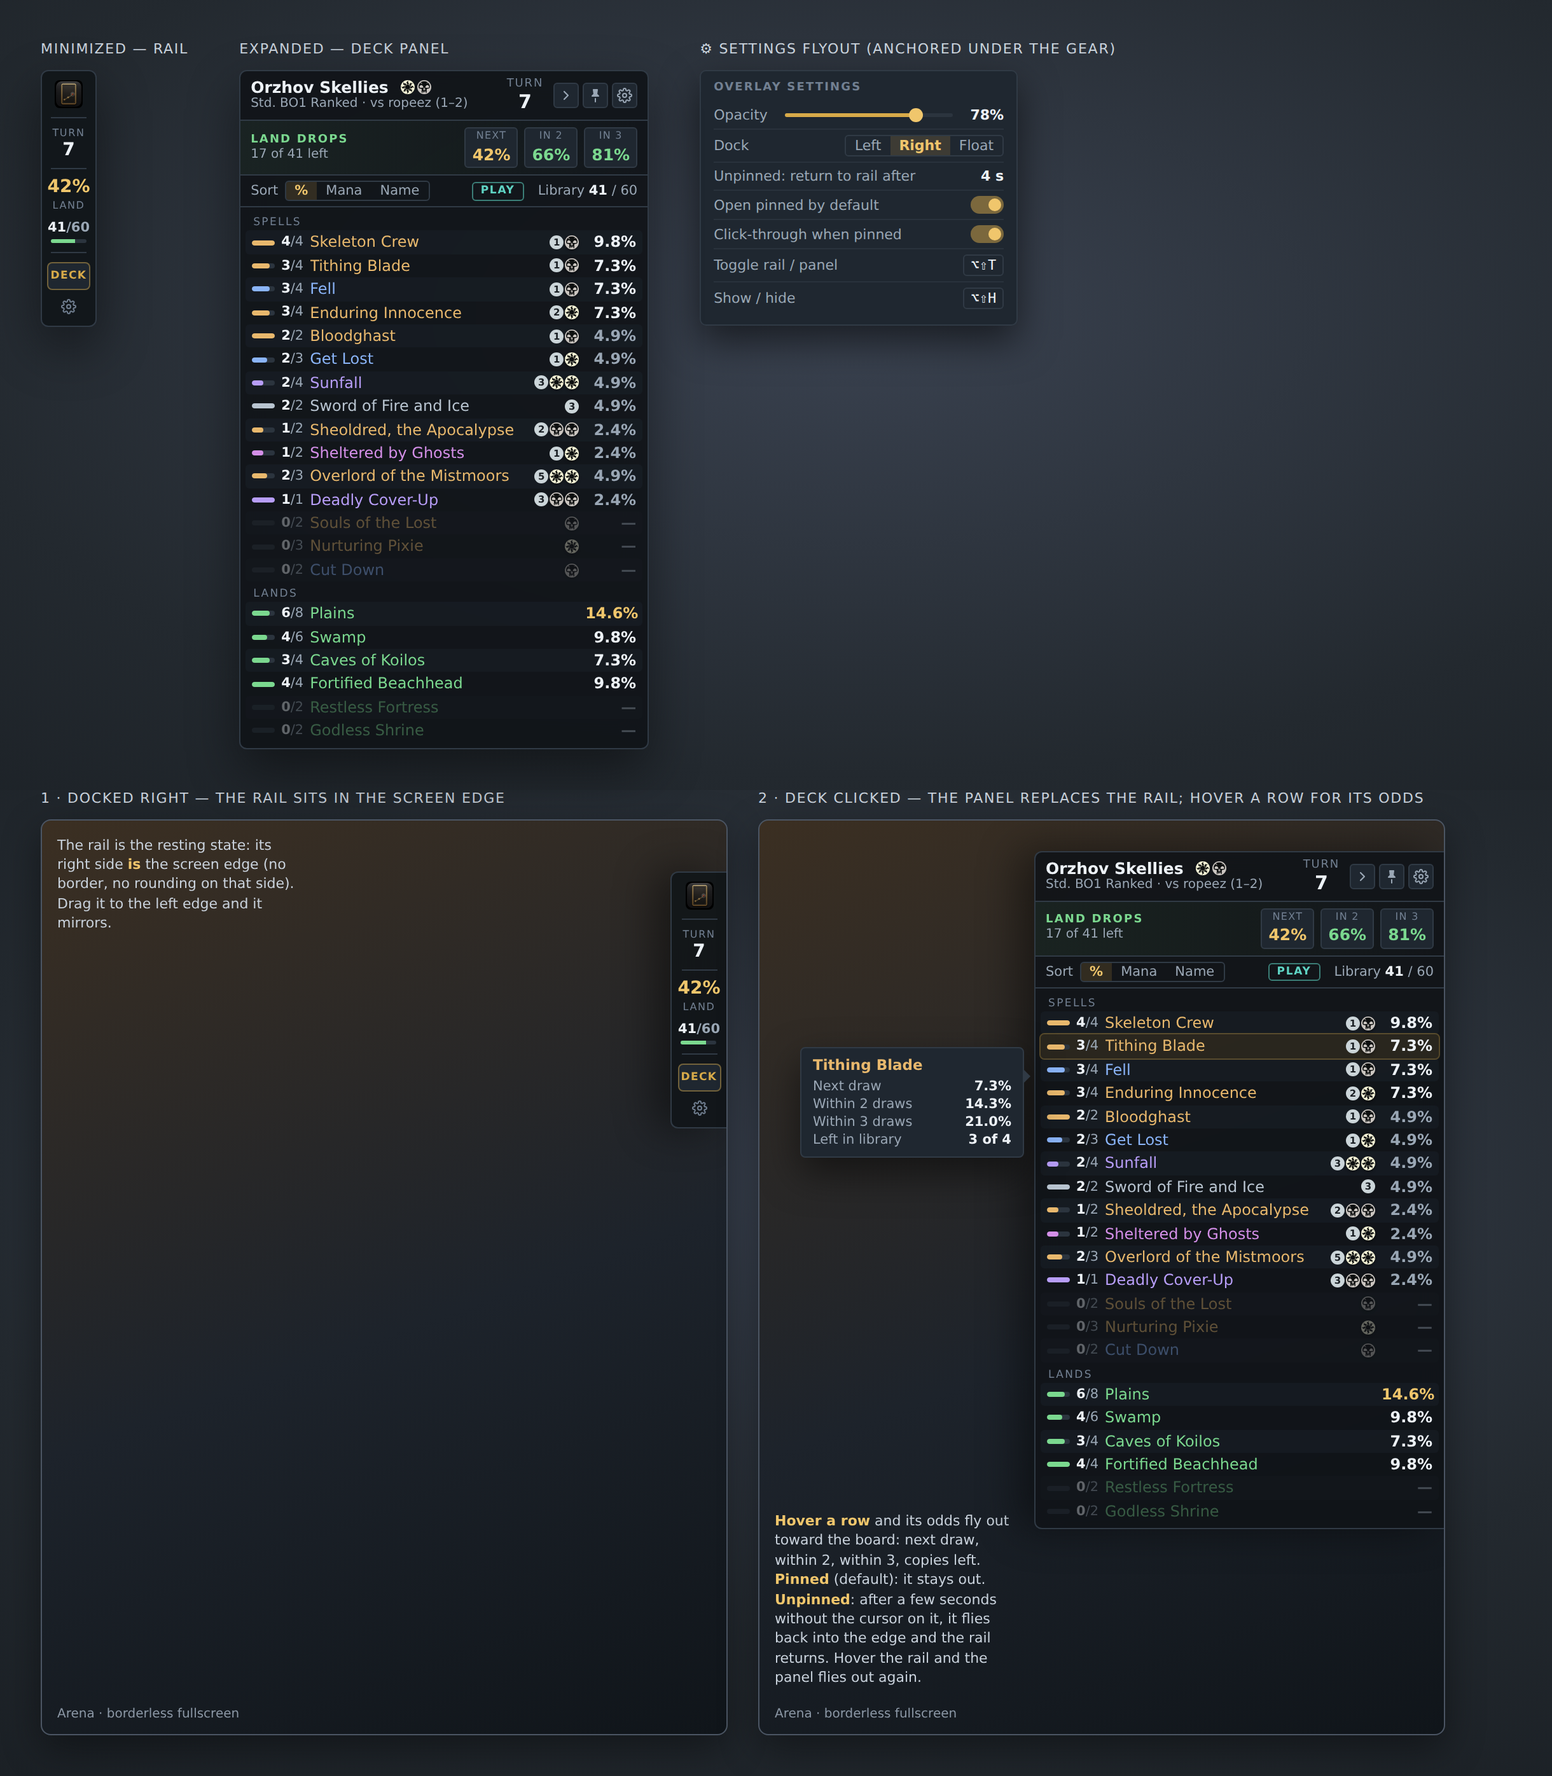
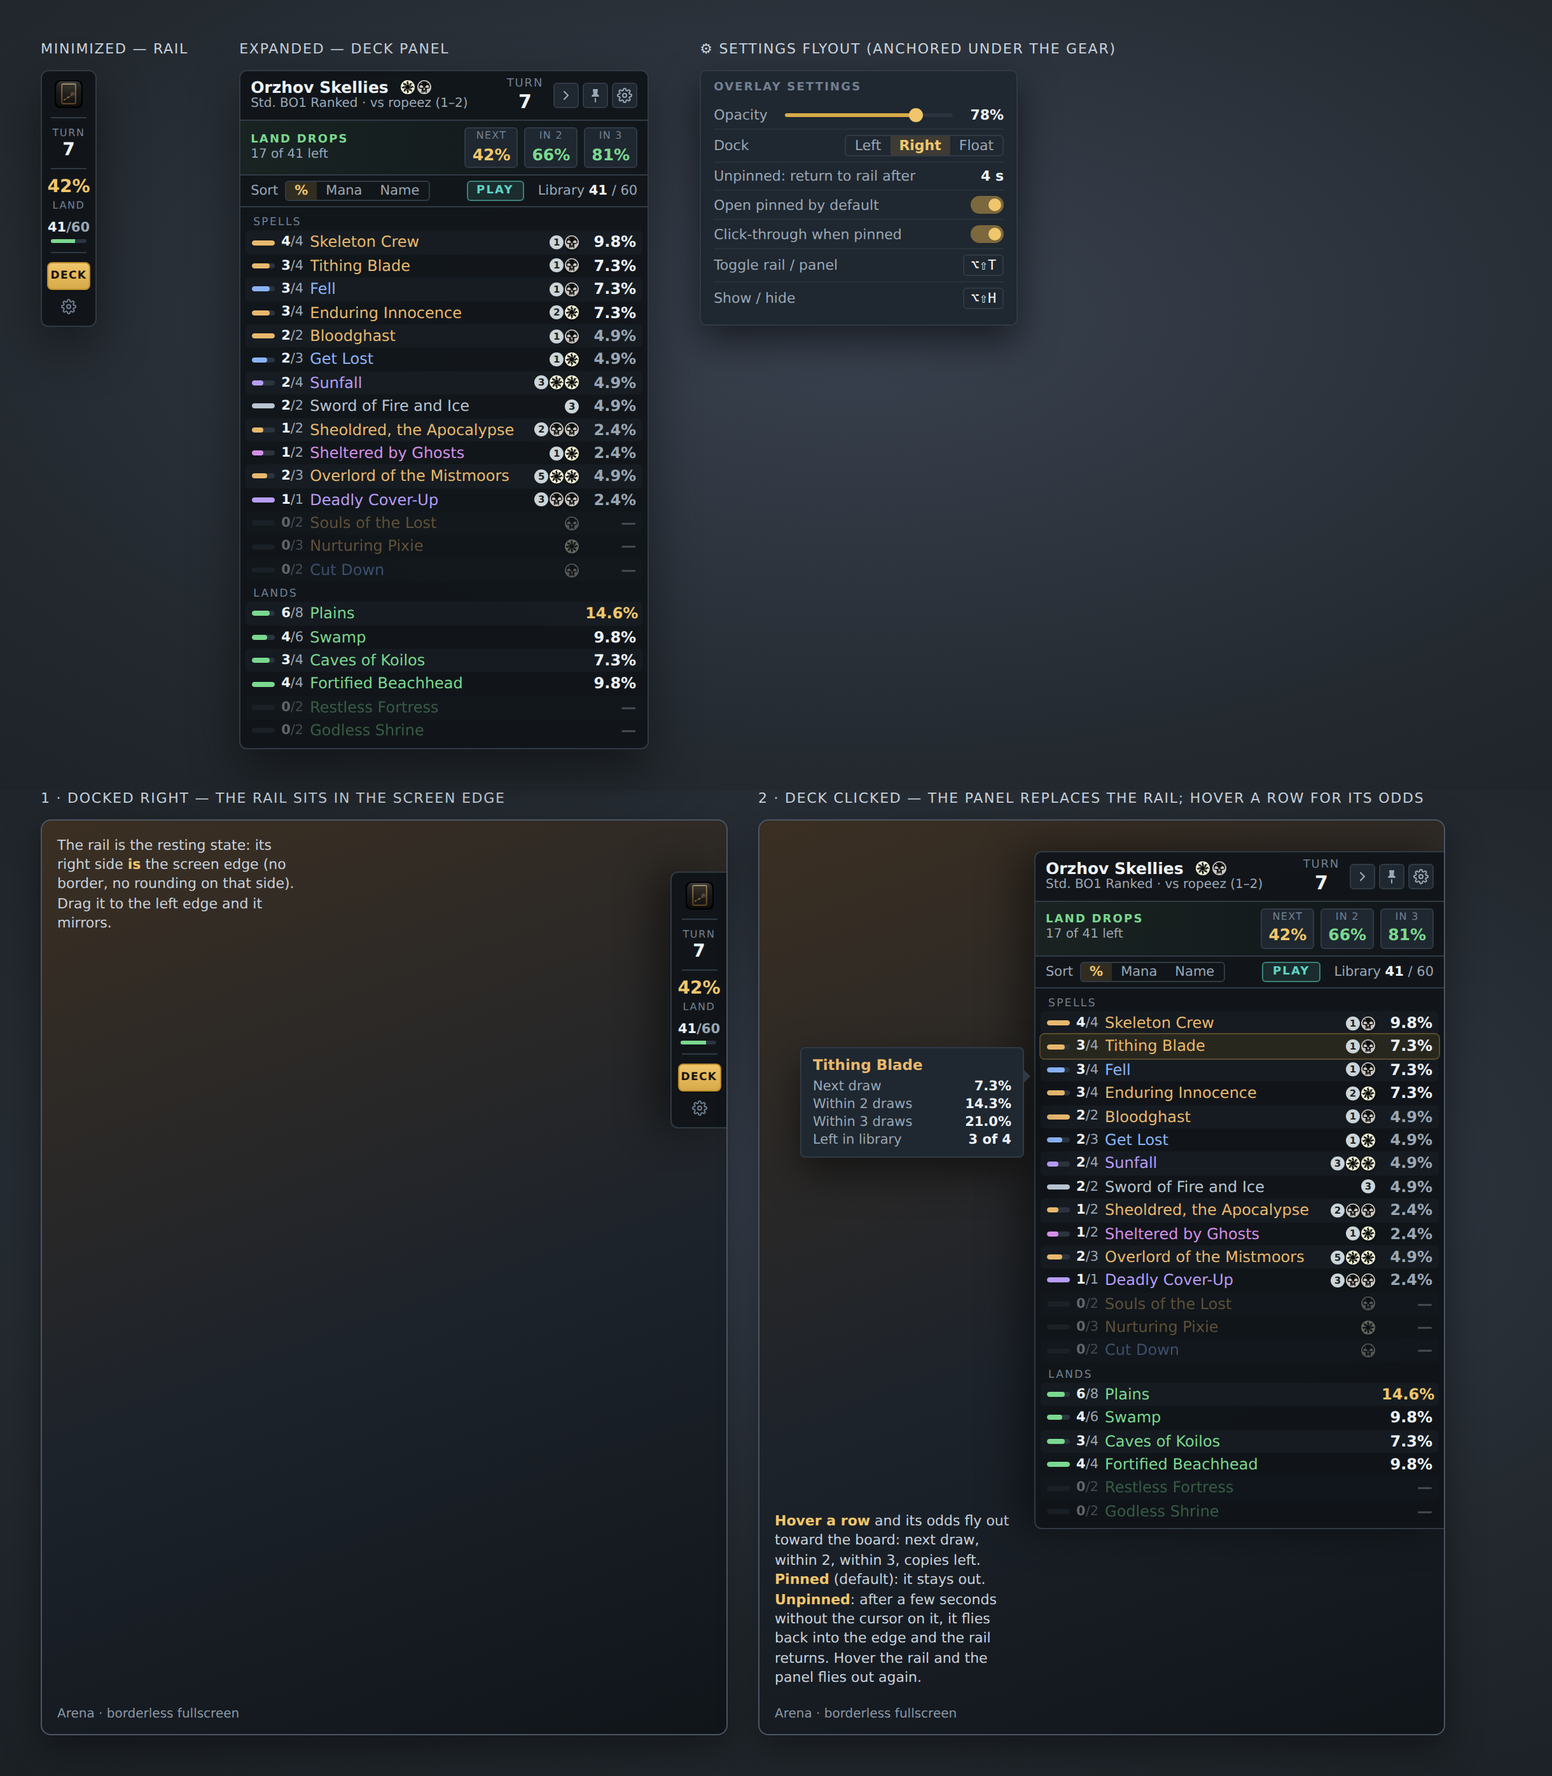
Overlay plan: enable/disable surfaces, Arena window detection (follow, hide when not in front, exclusive-fullscreen hint), 80 MB memory budget with Preact and no blur, pre-build checklist; DECK becomes the filled gold primary, PLAY/DRAW pill tinted

diff --git a/docs/plans/overlay-mockup.html b/docs/plans/overlay-mockup.html
@@ -10,8 +10,8 @@
   .logo { border-radius:4px; display:block; }
 
   /* rail */
-  .rail { width:44px; background:rgba(16,20,24,.88); border:1px solid var(--border); border-radius:6px; box-shadow:0 16px 40px rgb(0 0 0 / 45%);
-           backdrop-filter:blur(10px); padding:7px 0 5px; display:flex; flex-direction:column; align-items:center; gap:7px; }
+  .rail { width:44px; background:rgba(16,20,24,.94); border:1px solid var(--border); border-radius:6px; box-shadow:0 16px 40px rgb(0 0 0 / 45%);
+           padding:7px 0 5px; display:flex; flex-direction:column; align-items:center; gap:7px; }
   .rail .sep { width:28px; height:1px; background:var(--border); }
   .rail .k { font-size:8px; letter-spacing:.1em; color:var(--subtle); text-transform:uppercase; }
   .rail .v { font-size:14px; font-weight:800; line-height:1; margin-top:2px; }
@@ -20,11 +20,11 @@
   .rail .lib { font-size:10.5px; font-weight:700; color:var(--muted); } .rail .lib b { color:var(--text); }
   .rail .bar { width:28px; height:3px; border-radius:2px; background:#2b343e; overflow:hidden; margin-top:3px; } .rail .bar i { display:block; height:100%; width:68%; background:var(--success); }
   .rail .btn { width:34px; height:22px; border-radius:4px; border:1px solid var(--border); background:var(--panel-strong); display:grid; place-items:center; font-size:8.5px; font-weight:800; letter-spacing:.08em; color:var(--muted); }
-  .rail .btn.gold { color:var(--accent); border-color:rgba(215,170,73,.45); }
+  .rail .btn.gold { color:#1a1408; background:linear-gradient(180deg, #f0c66c, #d7aa49); border-color:#b98c2c; box-shadow:0 1px 0 rgb(0 0 0 / 35%); }
   .rail .gear { color:var(--subtle); font-size:13px; }
 
   /* panel */
-  .panel { width:322px; background:rgba(16,20,24,.92); border:1px solid var(--border); border-radius:6px; box-shadow:0 16px 40px rgb(0 0 0 / 45%); backdrop-filter:blur(10px); overflow:hidden; position:relative; }
+  .panel { width:322px; background:rgba(16,20,24,.94); border:1px solid var(--border); border-radius:6px; box-shadow:0 16px 40px rgb(0 0 0 / 45%); overflow:hidden; position:relative; }
   .head { display:flex; align-items:center; gap:8px; padding:6px 8px 6px 8px; border-bottom:1px solid var(--border); }
   .head .deck { flex:1; min-width:0; line-height:1.15; }
   .head .deck b { display:block; font-size:12.5px; white-space:nowrap; overflow:hidden; text-overflow:ellipsis; }
@@ -47,9 +47,9 @@
   .tools .seg { display:inline-flex; border:1px solid var(--border); border-radius:3px; overflow:hidden; } .tools .seg span { padding:1px 7px; }
   .tools .seg span.on { background:rgba(215,170,73,.16); color:var(--accent-strong); font-weight:700; }
   .tools .lib { margin-left:6px; }
-  .tools .pd { margin-left:auto; font-size:8.5px; font-weight:800; letter-spacing:.1em; padding:2px 6px; border-radius:3px; border:1px solid var(--border); line-height:1; }
-  .tools .pd.play { color:#5fd4c4; border-color:rgba(95,212,196,.55); }
-  .tools .pd.draw { color:#b79df7; border-color:rgba(183,157,247,.55); } .tools .lib b { color:var(--text); }
+  .tools .pd { margin-left:auto; font-size:9px; font-weight:800; letter-spacing:.12em; padding:3px 7px 2px; border-radius:3px; border:1px solid var(--border); line-height:1; }
+  .tools .pd.play { color:#5fd4c4; border-color:rgba(95,212,196,.5); background:rgba(95,212,196,.12); }
+  .tools .pd.draw { color:#b79df7; border-color:rgba(183,157,247,.5); background:rgba(183,157,247,.12); } .tools .lib b { color:var(--text); }
 
   .list { padding:2px 4px 4px; }
   .grp { font-size:8.5px; letter-spacing:.14em; color:var(--subtle); text-transform:uppercase; padding:5px 6px 1px; }
@@ -79,7 +79,7 @@
   /* docked / auto-hide demo */
   .screen { width:230px; height:190px; background:linear-gradient(160deg, #3b2f22, #1d232b 55%, #10151a); border:1px solid #4b5563; border-radius:8px; position:relative; overflow:hidden; box-shadow:0 10px 30px rgb(0 0 0 / 40%); }
   .screen .cap { position:absolute; left:10px; bottom:8px; font-size:10px; color:#8b97a5; }
-  .tab { position:absolute; right:0; top:60px; width:16px; height:64px; background:rgba(16,20,24,.92); border:1px solid var(--border); border-right:0; border-radius:8px 0 0 8px; display:flex; flex-direction:column; align-items:center; justify-content:center; gap:3px; }
+  .tab { position:absolute; right:0; top:60px; width:16px; height:64px; background:rgba(16,20,24,.94); border:1px solid var(--border); border-right:0; border-radius:8px 0 0 8px; display:flex; flex-direction:column; align-items:center; justify-content:center; gap:3px; }
   .tab b { font-size:9px; color:var(--accent-strong); writing-mode:vertical-rl; transform:rotate(180deg); letter-spacing:.05em; }
   .tab i { width:4px; height:4px; border-radius:50%; background:var(--success); }
   .ghost { position:absolute; right:0; top:14px; width:118px; height:200px; background:rgba(16,20,24,.85); border:1px solid var(--border); border-right:0; border-radius:10px 0 0 10px; transform:translateX(88px); box-shadow:-10px 0 30px rgb(0 0 0 / 40%); }

diff --git a/docs/plans/OVERLAY_TRACKER_PLAN.md b/docs/plans/OVERLAY_TRACKER_PLAN.md
@@ -28,7 +28,7 @@ nothing that matters — in the order a player reads it mid-game:
 | Turn | current turn number | orientation at a glance |
 | **Land** | `42%` in gold (14px) with LAND under it — no gauge, no ring, just the number | the one number the minimized state exists for |
 | Library | `41/60` with a thin bar (library ÷ deck size) | how deep into the deck you are |
-| DECK | opens the expanded panel | primary action, gold |
+| DECK | opens the expanded panel | the one primary action, so the one filled gold button |
 | ⚙ | opens the settings flyout (§4) | |
 
 The land number turns to the danger tone when the chance falls below 25%
@@ -81,8 +81,10 @@ the library starts at 99.
   **IN 2**, **IN 3** (green). The rail's number is NEXT; the strip is its
   expansion.
 - **Sort + play/draw + library**: sort by %, mana value, or name; a
-  **PLAY** / **DRAW** pill in the dashboard's on-play teal / on-draw violet
-  once the tracker knows (blank until then); `Library 41 / 60`.
+  **PLAY** / **DRAW** pill — the dashboard's on-play teal / on-draw violet
+  as text and border over a 12% tint of the same colour, 3px corners like
+  every other control — once the tracker knows (blank until then);
+  `Library 41 / 60`.
 - **Card list**, **Spells first, then Lands** — you scan for outs, and the
   land odds already have their own strip. Each row: an 18px **mini bar**
   filled to copies left ÷ copies in deck — the same bar language as the
@@ -143,7 +145,10 @@ overlay's settings file the moment it changes:
   (`Alt+Shift+H`), both rebindable.
 
 Corners are tight throughout — 6px on the window, 3px on controls, pills,
-and rows — so the overlay reads as an instrument, not a card.
+and rows — so the overlay reads as an instrument, not a card. The window
+background is a 94% opaque panel colour, not a blur: `backdrop-filter`
+costs a compositor pass on every frame Arena repaints underneath, for a
+look nobody is examining mid-game.
 
 What it deliberately does not have: a play-by-play log. The dashboard's Live
 Scoreboard already owns that; the overlay stays a draw-odds instrument.
@@ -163,6 +168,126 @@ for that card show 100% and everything else 0% for that draw, with a small
 "top: <card>" line in the land strip; if the tracker does not know, it says
 nothing rather than guessing.
 
+### Turning it on and off
+
+The overlay is off until a player asks for it, and "off" means the process
+is not running — zero memory, zero CPU, nothing to hide.
+
+- **Settings page** (dashboard, gear icon) gains an **In-game overlay**
+  section: an **Enable overlay** toggle (`overlay.enabled` in
+  `settings.json`, default off) and, once enabled, the launch-with-tracker
+  choice. Turning it off quits the overlay process immediately.
+- **Menu bar / tray** gains a checkable **Show Overlay** item mirroring the
+  same setting, so it can be toggled without opening the dashboard.
+- **The overlay's own tray icon** (Tauri tray) offers Show/Hide, Dock Left /
+  Right / Float, Settings…, and **Quit Overlay** — quitting from there also
+  writes `overlay.enabled: false`, so it stays off next launch.
+- **Hotkey** `Alt+Shift+H` hides and shows it without quitting.
+- **Lifecycle**: the menu-bar app starts the overlay when tracking starts
+  (if enabled) and stops it when tracking stops; the overlay also exits on
+  its own if the tracker API has been unreachable for five minutes, so a
+  crashed tracker never leaves an orphan window over the desktop.
+
+### The game window
+
+Two independent questions, answered by two independent mechanisms:
+
+1. **Is a game happening?** — comes from the tracker (`game_active` in
+   the overlay state, derived from Arena's own log), never from the OS. This
+   drives what the overlay *shows*: rail with numbers during a game,
+   "Waiting for next match" between games, "Tracker not running" when the
+   API is gone. No window detection is involved, so this part is identical
+   on both platforms and cannot break when Arena updates its window title.
+
+2. **Is Arena on screen, and where?** — comes from the OS, polled once a
+   second on the Rust side (a single cheap call, no hooks, no injection),
+   and drives *whether and where* the overlay is visible:
+   - **macOS**: `NSWorkspace.frontmostApplication` for focus (bundle id
+     `com.wizards.mtga`) and `CGWindowListCopyWindowInfo` for Arena's
+     window bounds → which display it's on and whether the bounds equal
+     that display's frame (borderless fullscreen).
+   - **Windows**: `GetForegroundWindow` → `GetWindowThreadProcessId` →
+     process image name `MTGA.exe` for focus; `EnumWindows` +
+     `GetWindowRect` + `MonitorFromWindow` for bounds and display.
+   - **Follow Arena** (default on): the overlay docks to the edge of the
+     display Arena's window is on, and re-docks when Arena moves monitors.
+   - **Hide when Arena isn't in front** (default on): alt-tab away and the
+     overlay hides within a second; come back and it returns. Off, it
+     stays up over everything (useful on a second monitor).
+   - **Exclusive fullscreen**: no overlay can draw over it on either OS
+     (Arena owns the display). Detected as: game active, Arena frontmost,
+     and our window not visible → the tray icon shows a one-time hint
+     ("Arena is in exclusive fullscreen; switch to borderless/windowed
+     fullscreen to see the overlay"). Borderless fullscreen — what most
+     players use — works normally.
+   - If Arena's window is never found (the poll fails, or Arena isn't
+     running), the overlay behaves as if "Follow Arena" were off and uses
+     the last known dock position; nothing errors, nothing spins.
+
+### Memory budget
+
+Target: **under 80 MB resident on both platforms, idle and in-game**, and
+flat over a long session. What gets that:
+
+- **Rendering**: the webview's own process is the floor (~30–50 MB for
+  WKWebView / WebView2 — shared system components, not ours). On top of
+  it the page must stay tiny: **Preact** (via the `preact/compat` alias,
+  so the components still read as React) instead of React — ~4 KB instead
+  of ~140 KB of framework, and a proportionally smaller heap; no icon
+  library (the handful of glyphs are inline SVG); no card images, ever; no
+  fonts beyond the system stack and the bundled mana font; no
+  `backdrop-filter`.
+- **One webview**: rail and panel are layouts of the same window, so
+  there is never a second webview process.
+- **Polling**: the state poll uses `If-None-Match` and the API answers
+  `304` when nothing changed, so an idle poll allocates nothing and parses
+  nothing. The interval backs off — 500 ms during a game, 2 s between
+  games, 10 s when the tracker is offline — and stops entirely while the
+  window is hidden.
+- **Rust side**: no async runtime beyond what Tauri already spins up, no
+  background threads of our own (the OS poll runs on Tauri's timer), and a
+  release profile with `lto = "fat"`, `codegen-units = 1`, `panic =
+  "abort"`, `strip = true`, `opt-level = "z"` — roughly a 4 MB binary.
+- **Tauri config**: `withGlobalTauri: false`, only the plugins listed
+  (`window-state`, `global-shortcut`, `single-instance`); the capability
+  file allows exactly the commands the page calls and nothing else.
+- **Acceptance test** (Phase 2): the overlay open for two hours against a
+  fixture that changes state every second; RSS must not grow more than
+  5 MB from minute 5 to minute 120, measured with Activity Monitor and
+  Task Manager. Leaks get fixed before Phase 3 starts.
+
+### Other things to plan for
+
+- **Multi-monitor and DPI**: dock geometry uses the target monitor's work
+  area and scale factor; a 4K monitor at 150% and a 1080p at 100% must
+  produce the same physical rail width (Tauri reports logical pixels —
+  size in logical units, never physical).
+- **The tracker's port** is configurable; the overlay is launched with
+  `--api` and also reads `settings.json` so a manually launched overlay
+  finds the right port.
+- **Reconnect**: tracker restart, log rotation, Bo3 sideboarding — the
+  overlay holds no state of its own beyond preferences, so every reconnect
+  is a fresh state fetch; nothing to resync.
+- **Version skew**: `GET /api/version` is checked on connect; a mismatch
+  with the overlay's own version shows a one-line banner rather than
+  guessing at a changed state shape. The two ship together in the same
+  release, so this only fires for a stale copy.
+- **Hotkeys vs Arena**: `Alt+Shift+T` / `Alt+Shift+H` collide with nothing
+  Arena binds; both rebindable, and a chord Arena uses is refused with an
+  explanation.
+- **Policy**: the overlay reads only the tracker's local API, which reads
+  only Arena's log — no memory reading, no input injection, no network.
+  That is the same footing as the tracker itself and the established
+  third-party trackers.
+- **Signing**: the overlay binary is inside the existing app bundle /
+  installer, so today's ad-hoc macOS signature and SmartScreen story cover
+  it; when the app gets notarized, the overlay is notarized with it.
+- **Tests**: Rust unit tests for dock geometry and the hide/show state
+  machine (pure functions over fake window rects); Playwright against the
+  webview page for every state (rail, panel, waiting, offline, mid-game,
+  Brawl); the existing pytest suite for `overlay_state.py` and
+  `/api/overlay`.
+
 ## 2. Why Tauri v2
 
 The earlier plan put the overlay in the PyQt6 process because it was already
@@ -174,9 +299,11 @@ there. That has three problems Tauri solves outright:
   false`, `skip_taskbar`, and `set_ignore_cursor_events` (click-through) as
   first-class window options. Getting the same from Qt means platform
   `#ifdef` work we would maintain forever.
-- **Same UI code as the dashboard.** The overlay is a React + TypeScript
-  view; it reuses `ColorPips`, `ManaCost`, the type palette, and the design
-  tokens from `ui/`. No second rendering stack to keep visually in sync.
+- **Same UI code as the dashboard.** The overlay is a TypeScript view
+  written against the React API but built on Preact through `preact/compat`
+  (see the memory budget); it reuses `ColorPips`, `ManaCost`, the type
+  palette, and the design tokens from `ui/`. No second rendering stack to
+  keep visually in sync.
 - **A small, signed, separate binary.** A Tauri app is ~6–10 MB and runs in
   its own process, so an overlay crash can never take tracking down (the one
   invariant this project cares about most). It is also the natural shape for
@@ -286,8 +413,8 @@ model for the webview, and current WebView2 / WKWebView support.
 ```
 overlay/                     Tauri v2 project (new)
   src-tauri/                 Rust: main.rs, tray, shortcuts, window commands, tauri.conf.json
-  src/                       React + TS: Rail.tsx, Panel.tsx, CardRow.tsx, useOverlayState.ts
-  package.json               vite + @tauri-apps/api + @tauri-apps/cli
+  src/                       Preact/compat + TS: Rail.tsx, Panel.tsx, CardRow.tsx, useOverlayState.ts
+  package.json               vite + preact + @tauri-apps/api + @tauri-apps/cli
 ui/src/shared/               design tokens, ColorPips, ManaCost, type palette, hypergeometric helpers (moved here; the dashboard imports from it too)
 src/mtga_tracker/overlay_state.py   pure state builder (no Qt, no Tauri)
 src/mtga_tracker/live_api.py        + GET /api/overlay
@@ -305,8 +432,10 @@ bundle. CI adds a Rust toolchain step to `release.yml` (cached).
    /api/overlay` with ETag. The dashboard could render this too, which is
    how it gets verified before any Tauri code exists.
 2. **Phase 2 — Tauri shell.** Window flags, drag, tray, hotkey,
-   window-state, single instance, opacity command. Static JSON fixture in
-   the webview.
+   window-state, single instance, opacity command, the Arena window poll
+   (follow / hide-when-not-in-front), and the enable/disable plumbing
+   (Settings toggle, menu-bar item, launch with tracking). Static JSON
+   fixture in the webview. Ends with the two-hour memory soak.
 3. **Phase 3 — rail + panel UI** against the fixture, then against the live
    API: land number, land strip, list (spells first), mana symbols, hover
    card, sort, dimmed rows, ⚙ flyout, waiting/offline/mid-game states.
